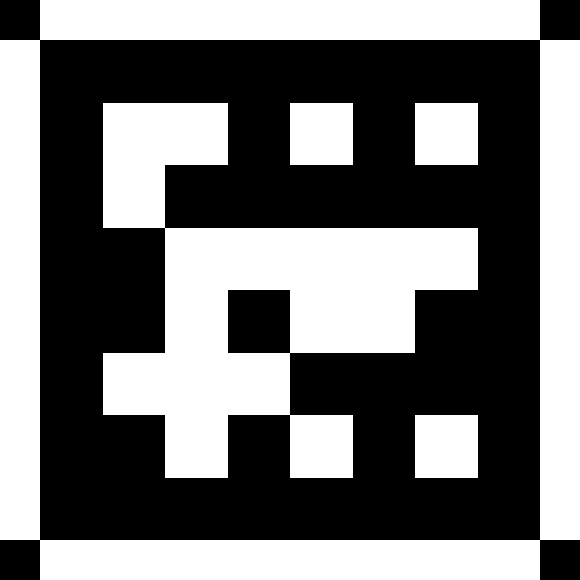
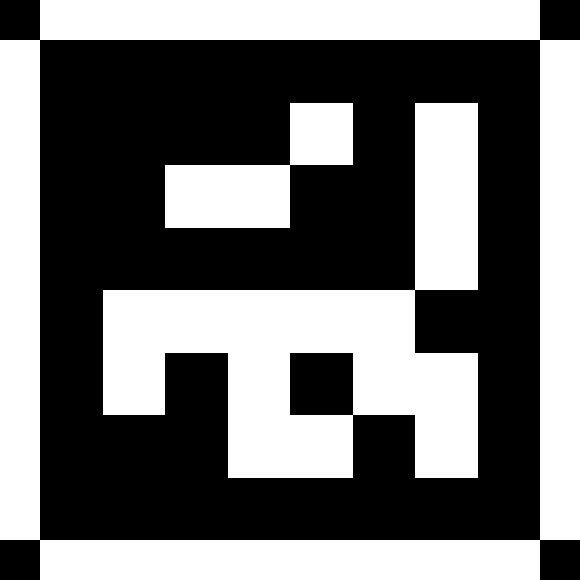
regen boards

Changed region(s): [[0.1552, 0.1552, 0.8379, 0.8379], [0.5897, 0.5897, 0.8379, 0.7138]]

diff --git a/host/raspi_anchor_client.py b/host/raspi_anchor_client.py
@@ -28,6 +28,7 @@ class RaspiAnchorClient:
         self.connected = False  # status of connection to websocket
         self.receive_task = None  # Task for receiving messages from websocket
         self.video_task = None  # Task for streaming video
+        self.calibration_mode = True
         try:
             # read calibration data from file
             saved_info = np.load('anchor_pose_%i' % self.anchor_num)
@@ -59,9 +60,7 @@ class RaspiAnchorClient:
         """
         # We don't have a timestamp in the stream, so we have to assume the local time minus some for latency
         timestamp = time.time() - 0.2
-        # within this scope, interpret the symbol calibration_mode as referring to the global calibration_mode
-        global calibration_mode
-        if calibration_mode:
+        if self.calibration_mode:
             for detection in locate_markers(frame):
                 print(f"Found board: {detection.name}")
                 print(f"Timestamp: {timestamp}")
@@ -191,7 +190,7 @@ class RaspiAnchorClient:
         """
         # theres a different port for the video and the websocket
         stream_url = f"tcp://{self.address}:{video_port}"  # Construct the URL
-        self.video_task = asyncio.to_thread(self.connect_video_stream, stream_url=stream_url)
+        self.video_task = asyncio.create_task(asyncio.to_thread(self.connect_video_stream, stream_url=stream_url))
 
         # a websocket connection for the control
         ws_uri = f"ws://{self.address}:{websocket_port}"

diff --git a/host/observer.py b/host/observer.py
@@ -36,6 +36,7 @@ class AsyncDiscovery:
     def __init__(self) -> None:
         self.aiobrowser: AsyncServiceBrowser | None = None
         self.aiozc: AsyncZeroconf | None = None
+        self.send_position_updates = True
 
         # keyed by server name
         self.bot_clients = {}
@@ -63,7 +64,7 @@ class AsyncDiscovery:
                 f.write(f'{k}:{v}\n')
 
     def listen_position_updates(self):
-        while True:     
+        while self.send_position_updates:     
             updates = to_ob_q.get()
             if 'future_anchor_lines' in updates:
                 # this should have one column for each anchor
@@ -115,14 +116,18 @@ class AsyncDiscovery:
         )
 
         while True:
-            await asyncio.sleep(1)
+            try:
+                await asyncio.sleep(1)
+            except asyncio.exceptions.CancelledError:
+                await self.async_close()
 
     async def async_close(self) -> None:
         assert self.aiozc is not None
         assert self.aiobrowser is not None
         await self.aiobrowser.async_cancel()
         await self.aiozc.async_close()
-        await asyncio.gather([client.close_all() for name,client in self.bot_clients.items()])
+        await asyncio.gather(*[client.close_all() for name,client in self.bot_clients.items()])
+        self.send_position_updates = False
         await self.position_update_task
 
 def start_observation(shared_array, to_ui_q, to_pe_q, to_ob_q):

diff --git a/host/cv_common.py b/host/cv_common.py
@@ -39,16 +39,14 @@ class Detection:
         self.translation = t
 
 def locate_markers(im):
-    corners, ids, rejectedImgPoints = detector.detectMarkers(frame)
+    corners, ids, rejectedImgPoints = detector.detectMarkers(im)
+    results = []
     if ids is not None:
         #estimate pose of every marker in the image
         marker_points = np.array([[-marker_size / 2, marker_size / 2, 0],
                                   [marker_size / 2, marker_size / 2, 0],
                                   [marker_size / 2, -marker_size / 2, 0],
                                   [-marker_size / 2, -marker_size / 2, 0]], dtype=np.float32)
-        rvecs = []
-        tvecs = []
-        results = []
 
         for i,c in zip(ids, corners):
             _, r, t = cv2.solvePnP(marker_points, c, mtx, distortion, False, cv2.SOLVEPNP_IPPE_SQUARE)
@@ -58,7 +56,7 @@ def locate_markers(im):
             except IndexError:
                 # saw something that's not part of my robot
                 print(f'Unknown marker spotted with id {i}')
-        return results
+    return results
 
 def generateMarkerImages():
     border_px = 40

diff --git a/host/position_estimator.py b/host/position_estimator.py
@@ -100,7 +100,7 @@ class CDPR_position_estimator:
         # precalcualate a regular array of times from 0 till horizon_s for evaluating motor positions
         # in the time domain of the model splines. the domain is 0-1, and we want only the right half, representing the future.
         bot_loop_freq = 30 # hz
-        self.future_times = np.linspace(0.5, 1, self.horizon_s * bot_loop_freq)
+        self.future_times = np.linspace(0.5, 1, self.horizon_s * 4)
 
     def loadAnchorPoses(self):
         pts = []
